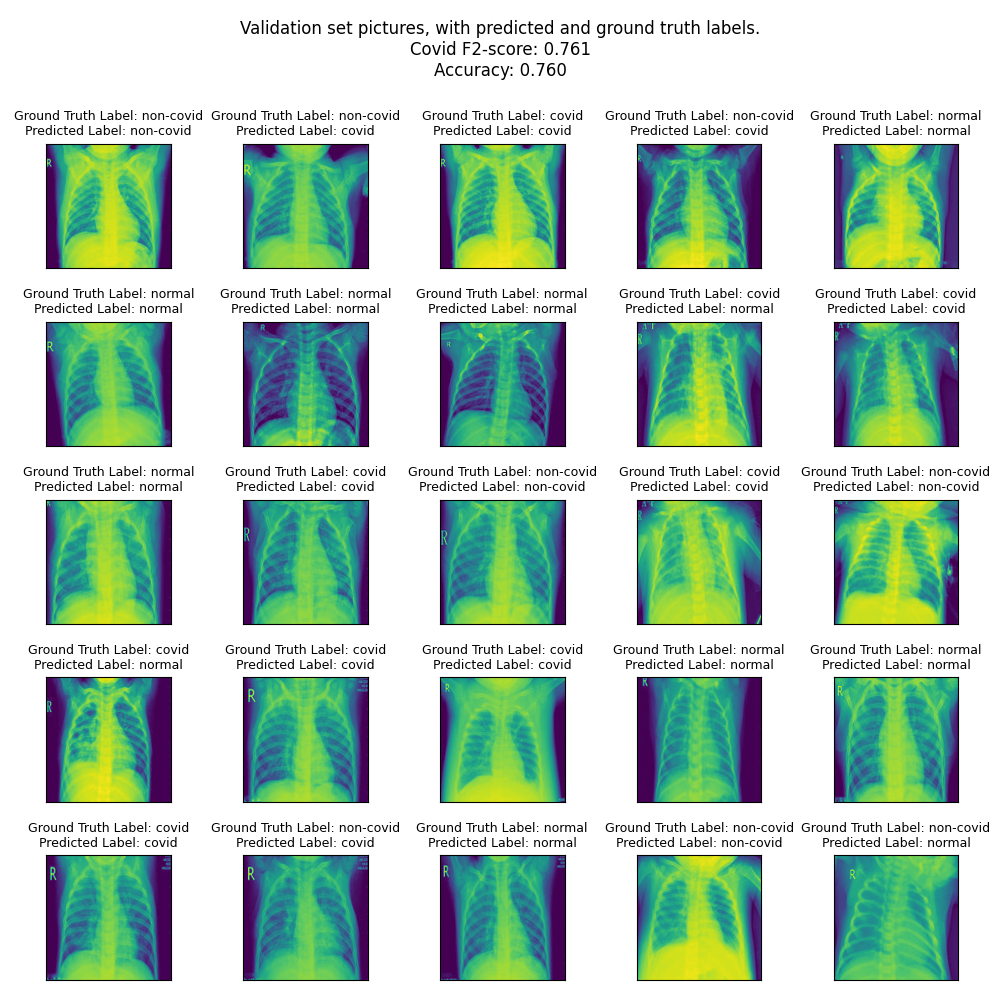
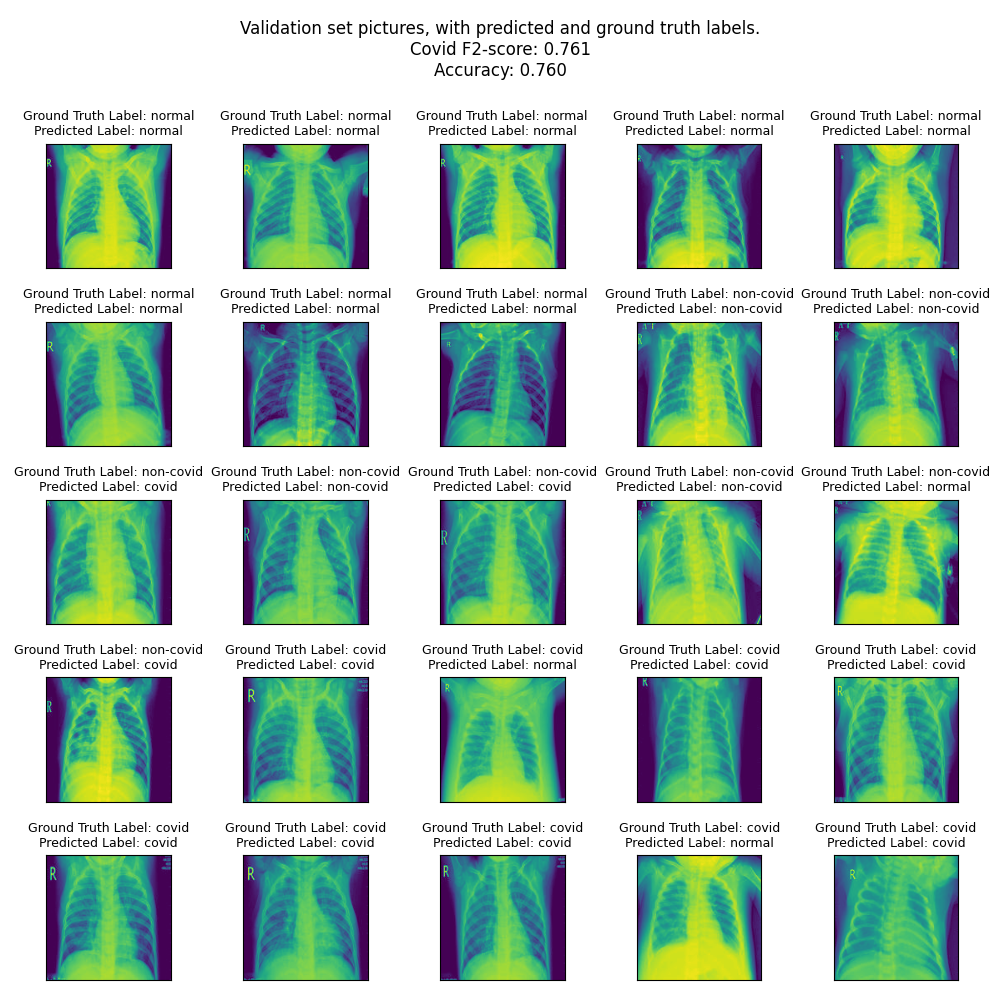
fix shuffle

diff --git a/predict_cli.py b/predict_cli.py
@@ -18,7 +18,7 @@ model_covid = load(args.covid_checkpoint)
 
 if args.dataset == 'val':
     ld = Lung_Val_Dataset(args.data_dir, covid = None)
-    loader = DataLoader(ld, batch_size = 64, shuffle=True)
+    loader = DataLoader(ld, batch_size = 64, shuffle=False)
     ti, tc, pi, pc, metrics = test_overall_model(model_infect, model_covid, loader)
     visualise_val_predictions(ld, ti, tc, pi, pc, metrics)
     print('You can refer to the visualisation of the validation dataset at "validation_display.png"')
